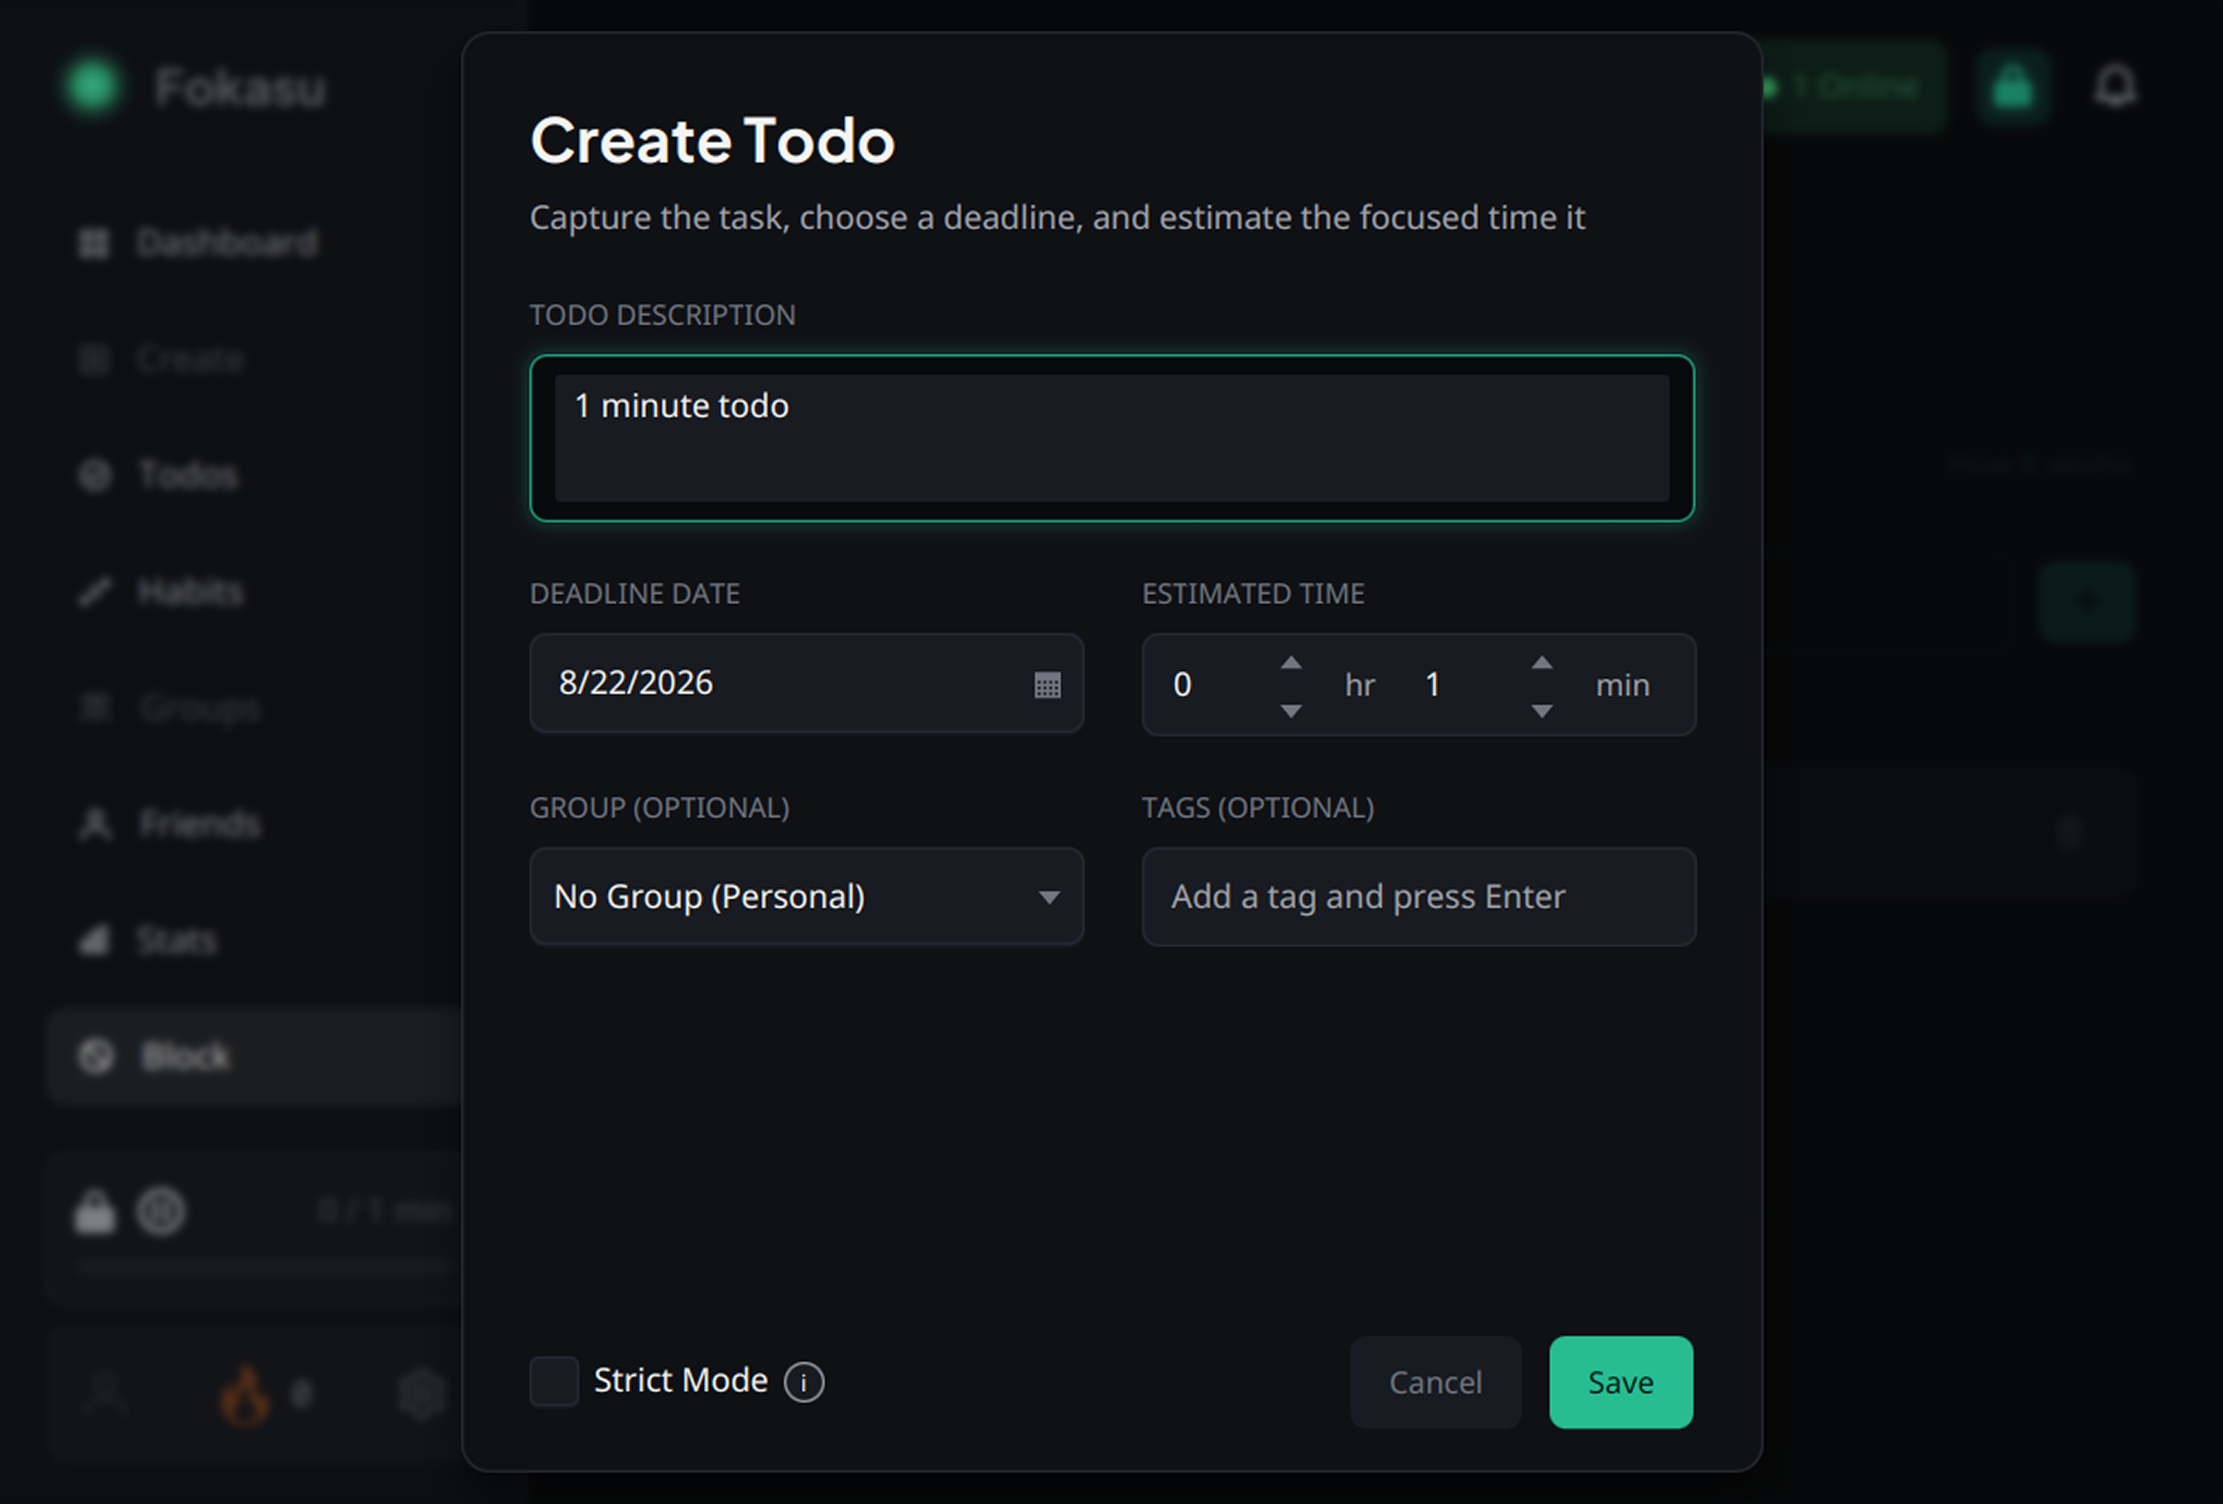
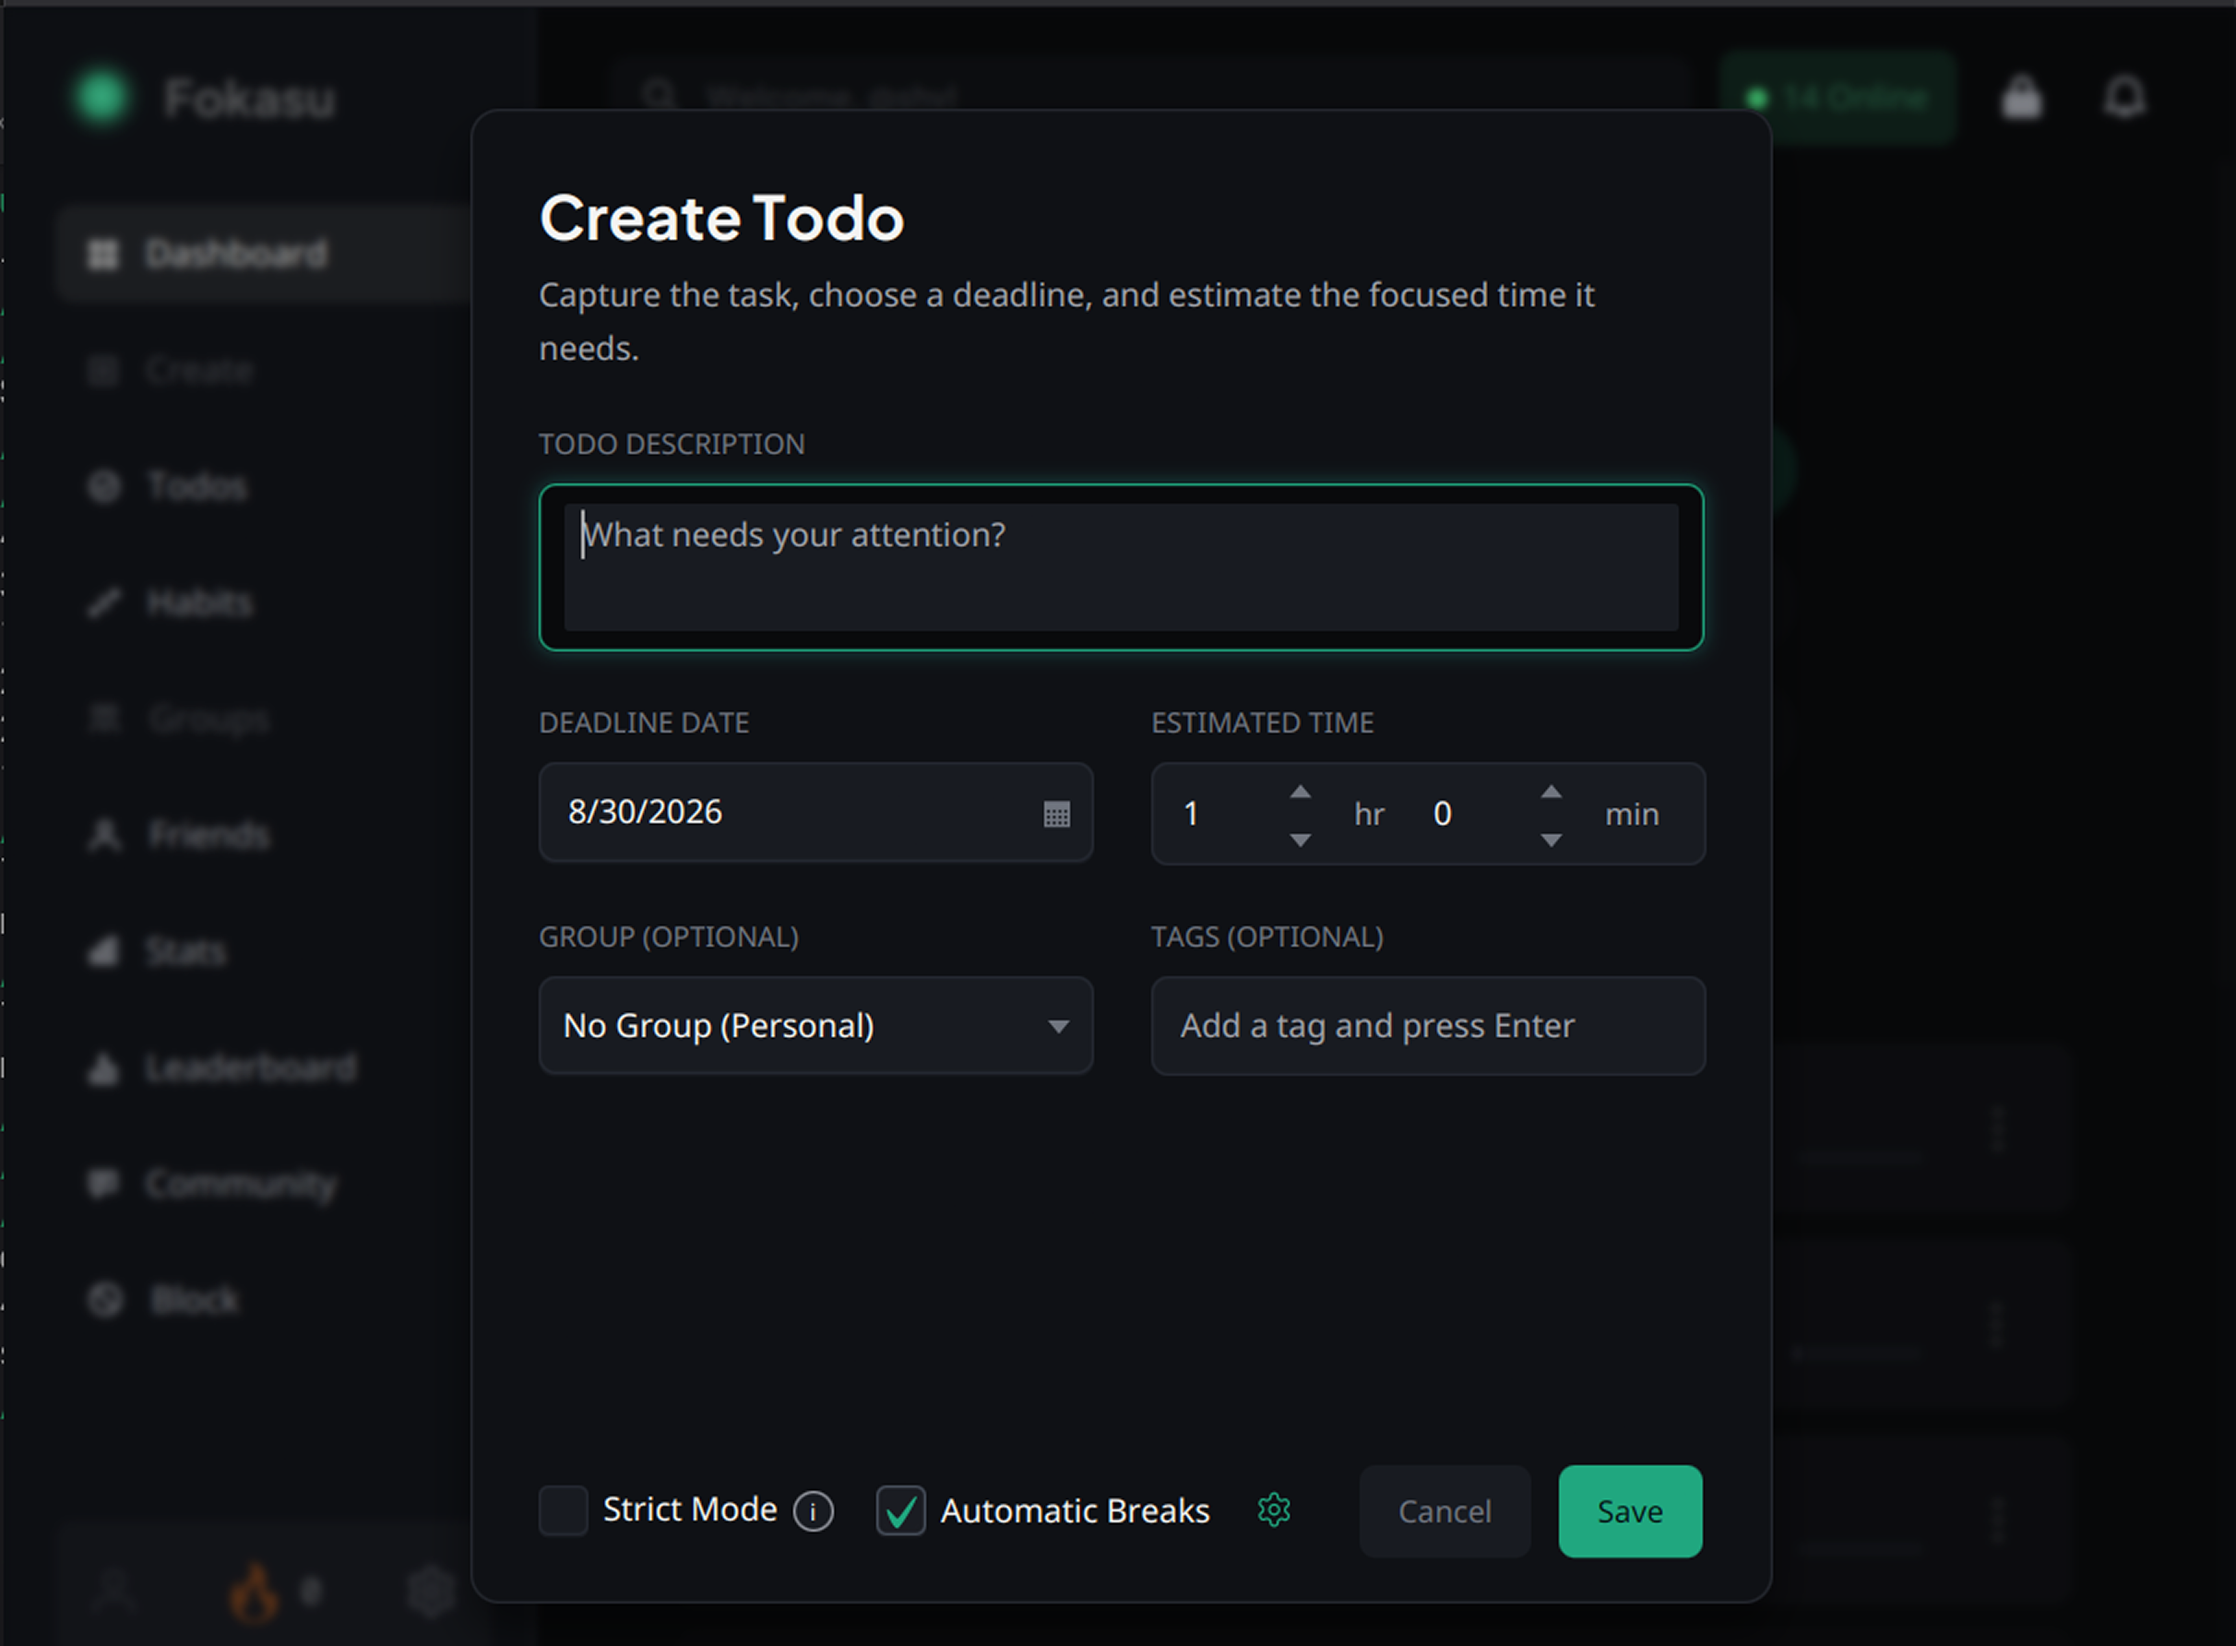
* added improvements for how-it-works page

diff --git a/how-it-works/index.html b/how-it-works/index.html
@@ -6,16 +6,16 @@
     <meta name="theme-color" content="#030506" />
     <meta
       name="description"
-      content="Learn how Fokasu blocks distracting websites and applications until you complete the tasks and focus time committed to your goal."
+      content="Learn how to create a bypass-resistant Fokasu Focus Block for distracting websites and applications."
     />
     <link rel="canonical" href="https://fokasu.app/how-it-works/" />
-    <title>Website and App Blocker Guide — Fokasu</title>
+    <title>Focus Block Guide — Fokasu</title>
     <link rel="icon" href="/logo/fokasu_logo.svg" type="image/svg+xml" />
     <link rel="alternate icon" href="/logo/fokasu_logo.png" type="image/png" />
-    <link rel="stylesheet" href="/index.css?v=mobile-more-20260826-1" />
+    <link rel="stylesheet" href="/index.css?v=mobile-border-20260830-1" />
     <link
       rel="stylesheet"
-      href="/how_it_works.css?v=block-list-notes-20260826-2"
+      href="/how_it_works.css?v=automatic-breaks-note-20260830-1"
     />
     <script src="/navigation.js?v=shared-download-20260826-1" defer></script>
   </head>
@@ -69,9 +69,9 @@
             class="nav-how-blocks"
             href="/how-it-works/"
             aria-current="page"
-            aria-label="How Block Works"
+            aria-label="Focus Block Guide"
           >
-            <span class="nav-label-full">How Block Works</span>
+            <span class="nav-label-full">Focus Block Guide</span>
             <span class="nav-label-short" aria-hidden="true">Block</span>
           </a>
           <details class="nav-more">
@@ -96,13 +96,13 @@
     </header>
 
     <main id="top" class="how-it-works-page">
-      <section class="how-it-works-content" aria-label="Blocks overview">
+      <section class="how-it-works-content" aria-label="Focus Block overview">
         <header class="page-header">
-          <h1>How Blocking Works</h1>
+          <h1>Focus Block Guide</h1>
         </header>
 
         <aside class="block-overview" aria-labelledby="block-overview-title">
-          <h2 id="block-overview-title">The focus lock cycle</h2>
+          <h2 id="block-overview-title">The Focus Block cycle</h2>
           <ol class="block-overview-flow">
             <li>
               <span class="overview-step-number">1</span>
@@ -129,7 +129,7 @@
         </aside>
 
         <header class="flow-heading flow-heading--enable">
-          <h2>Enable Blocking</h2>
+          <h2>Start a Focus Block</h2>
         </header>
 
         <section class="block-step" id="install-extension">
@@ -166,7 +166,7 @@
           <div class="step-note-stack">
             <aside class="step-note step-note--extension-required">
               <strong>Extension required</strong>
-              If Focus Lock is active and the extension is not installed or
+              If a Focus Block is active and the extension is not installed or
               enabled, Fokasu detects it and closes the browser after a grace
               period (60 seconds by default).
             </aside>
@@ -192,7 +192,7 @@
           <figure class="step-media has-lock-highlight">
             <img
               src="/screenshots/new-how-it-works-for-blocks/dashboard.png"
-              alt="Fokasu dashboard with the focus lock in the header highlighted"
+              alt="Fokasu dashboard with the Focus Block lock icon highlighted"
               loading="lazy"
               decoding="async"
               draggable="false"
@@ -213,8 +213,8 @@
 
           <figure class="step-media">
             <img
-              src="/screenshots/new-how-it-works-for-blocks/setting-locks.png"
-              alt="Focus Lock dialog for setting the focus goal and break reward percentage"
+              src="/screenshots/new-how-it-works-for-blocks/setting-locks.png?v=scheduled-block-20260830-1"
+              alt="Focus Block dialog showing focus time, break reward, and scheduled start settings"
               loading="lazy"
               decoding="async"
               draggable="false"
@@ -222,17 +222,26 @@
             <span class="screenshot-highlight screenshot-highlight--focus-time" aria-hidden="true"></span>
           </figure>
 
-          <aside class="step-note step-note--break-reward">
-            <strong>Optional break reward</strong>
-            Choose a percentage of each completed todo to receive as break
-            time.
-          </aside>
+          <div class="step-note-stack step-note-stack--focus-settings">
+            <aside class="step-note step-note--break-reward">
+              <strong>Optional break reward</strong>
+              Choose a percentage of each completed todo to receive as break
+              time.
+            </aside>
+
+            <aside class="step-note step-note--scheduled-block">
+              <strong>Schedule it for later</strong>
+              If you tend to procrastinate, schedule the Focus Block to start
+              later—15 minutes from now, for example—instead of starting it
+              immediately.
+            </aside>
+          </div>
         </div>
 
         <section class="block-step" id="confirm-lock">
           <div class="step-copy">
-            <p class="step-kicker">Step 3 · Lock active</p>
-            <h2>The sidebar shows that your lock is running.</h2>
+            <p class="step-kicker">Step 3 · Block active</p>
+            <h2>The sidebar shows that your Focus Block is running.</h2>
             <p>
               The progress bar begins at zero and grows as completed todo time
               counts toward your focus goal.
@@ -242,7 +251,7 @@
           <figure class="step-media has-progress-highlight">
             <img
               src="/screenshots/new-how-it-works-for-blocks/lock-enabled.png"
-              alt="Active focus lock with its progress bar highlighted in the sidebar"
+              alt="Active Focus Block with its progress bar highlighted in the sidebar"
               loading="lazy"
               decoding="async"
               draggable="false"
@@ -356,7 +365,7 @@
         </section>
 
         <header class="flow-heading flow-heading--disable">
-          <h2>Disable Blocking</h2>
+          <h2>Finish a Focus Block</h2>
         </header>
 
         <section class="block-step" id="complete-todos">
@@ -371,8 +380,8 @@
 
           <figure class="step-media">
             <img
-              src="/screenshots/new-how-it-works-for-blocks/create-todo.png"
-              alt="Create Todo dialog with a one-minute estimated time"
+              src="/screenshots/new-how-it-works-for-blocks/create-todo.png?v=create-todo-20260830-1"
+              alt="Fokasu Create Todo dialog showing deadline, estimated time, group, tags, Strict Mode, and automatic breaks"
               loading="lazy"
               decoding="async"
               draggable="false"
@@ -380,10 +389,11 @@
             <span class="screenshot-highlight screenshot-highlight--estimated-time" aria-hidden="true"></span>
           </figure>
 
-          <aside class="step-note step-note--goal-eligibility">
-            <strong>Which todos count</strong>
-            Only todos started after the focus goal is created contribute
-            toward that goal.
+          <aside class="step-note step-note--automatic-breaks">
+            <strong>Automatic breaks</strong>
+            When automatic breaks are enabled for a todo, blocked websites and
+            applications become available during each break, then are blocked
+            again when the break ends.
           </aside>
         </section>
 
@@ -456,7 +466,7 @@
                 <strong>Emergency exit</strong>
                 <span>
                   Set how long Fokasu waits before an emergency exit clears an
-                  active focus lock.
+                  active Focus Block.
                 </span>
               </li>
               <li>
@@ -500,7 +510,7 @@
 
         <nav class="footer-links" aria-label="Footer navigation">
           <a href="/#top">Home</a>
-          <a href="#top">How Block Works</a>
+          <a href="#top">Focus Block Guide</a>
           <a href="/how-it-works/">Guides</a>
           <a href="/privacy.html">Privacy</a>
         </nav>

diff --git a/how_it_works.css b/how_it_works.css
@@ -335,13 +335,29 @@
   line-height: 1.7;
 }
 
-.block-step--focus-settings .step-note--break-reward {
+.block-step--focus-settings .step-note--break-reward,
+.block-step--focus-settings .step-note--scheduled-block {
   grid-column: 1 / -1;
   justify-self: center;
   order: 3;
   width: fit-content;
   max-width: min(100%, 900px);
   margin-top: 4px;
+}
+
+.block-step--focus-settings .step-note-stack--focus-settings {
+  grid-column: 1 / -1;
+  justify-self: center;
+  order: 3;
+  width: min(100%, 640px);
+  margin-top: 4px;
+}
+
+.block-step--focus-settings .step-note-stack--focus-settings .step-note {
+  box-sizing: border-box;
+  width: 100%;
+  max-width: none;
+  margin-top: 0;
 }
 
 #confirm-lock {
@@ -469,7 +485,7 @@
   line-height: 1.7;
 }
 
-#complete-todos .step-note--goal-eligibility {
+#complete-todos .step-note--automatic-breaks {
   grid-column: 1 / -1;
   justify-self: center;
   order: 3;
@@ -729,10 +745,10 @@
 }
 
 .screenshot-highlight--focus-time {
-  top: 47.8%;
-  left: 23.8%;
-  width: 25.7%;
-  height: 6.7%;
+  top: 42.4%;
+  left: 26.5%;
+  width: 23.7%;
+  height: 6.3%;
   border-radius: 10px;
   box-shadow:
     0 0 0 3px #121416,
@@ -768,10 +784,10 @@
 }
 
 .screenshot-highlight--estimated-time {
-  top: 42.3%;
+  top: 46.4%;
   left: 51.1%;
   width: 25.7%;
-  height: 5.8%;
+  height: 6.1%;
   border-radius: 10px;
   box-shadow:
     0 0 0 3px #121416,
@@ -1084,9 +1100,10 @@
   #install-extension .step-note--extension-required,
   #install-extension .step-note--browser-support,
   .block-step--focus-settings .step-note--break-reward,
+  .block-step--focus-settings .step-note--scheduled-block,
   #build-block-list .step-note--exceptions,
   #test-block .step-note--while-locked,
-  #complete-todos .step-note--goal-eligibility {
+  #complete-todos .step-note--automatic-breaks {
     box-sizing: border-box;
     width: 100%;
     max-width: 820px;

diff --git a/whats-new-1.0.1/index.html b/whats-new-1.0.1/index.html
@@ -66,9 +66,9 @@
           <a
             class="nav-how-blocks"
             href="/how-it-works/"
-            aria-label="How Block Works"
+            aria-label="Focus Block Guide"
           >
-            <span class="nav-label-full">How Block Works</span>
+            <span class="nav-label-full">Focus Block Guide</span>
             <span class="nav-label-short" aria-hidden="true">Block</span>
           </a>
           <details class="nav-more">
@@ -258,7 +258,7 @@
 
         <nav class="footer-links" aria-label="Footer navigation">
           <a href="/">Home</a>
-          <a href="/how-it-works/">How Block Works</a>
+          <a href="/how-it-works/">Focus Block Guide</a>
           <a href="/how-it-works/">Guides</a>
           <a href="/privacy.html">Privacy</a>
         </nav>

diff --git a/how_it_works.html b/how_it_works.html
@@ -5,7 +5,7 @@
     <meta name="viewport" content="width=device-width, initial-scale=1.0" />
     <meta name="robots" content="noindex" />
     <meta http-equiv="refresh" content="0; url=/how-it-works/" />
-    <title>Redirecting to the Website and App Blocker Guide</title>
+    <title>Redirecting to the Focus Block Guide</title>
     <script>
       window.location.replace("/how-it-works/");
     </script>
@@ -13,7 +13,7 @@
   <body>
     <p>
       Redirecting to
-      <a href="/how-it-works/">Website and App Blocker guide</a>…
+      <a href="/how-it-works/">Focus Block Guide</a>…
     </p>
   </body>
 </html>
